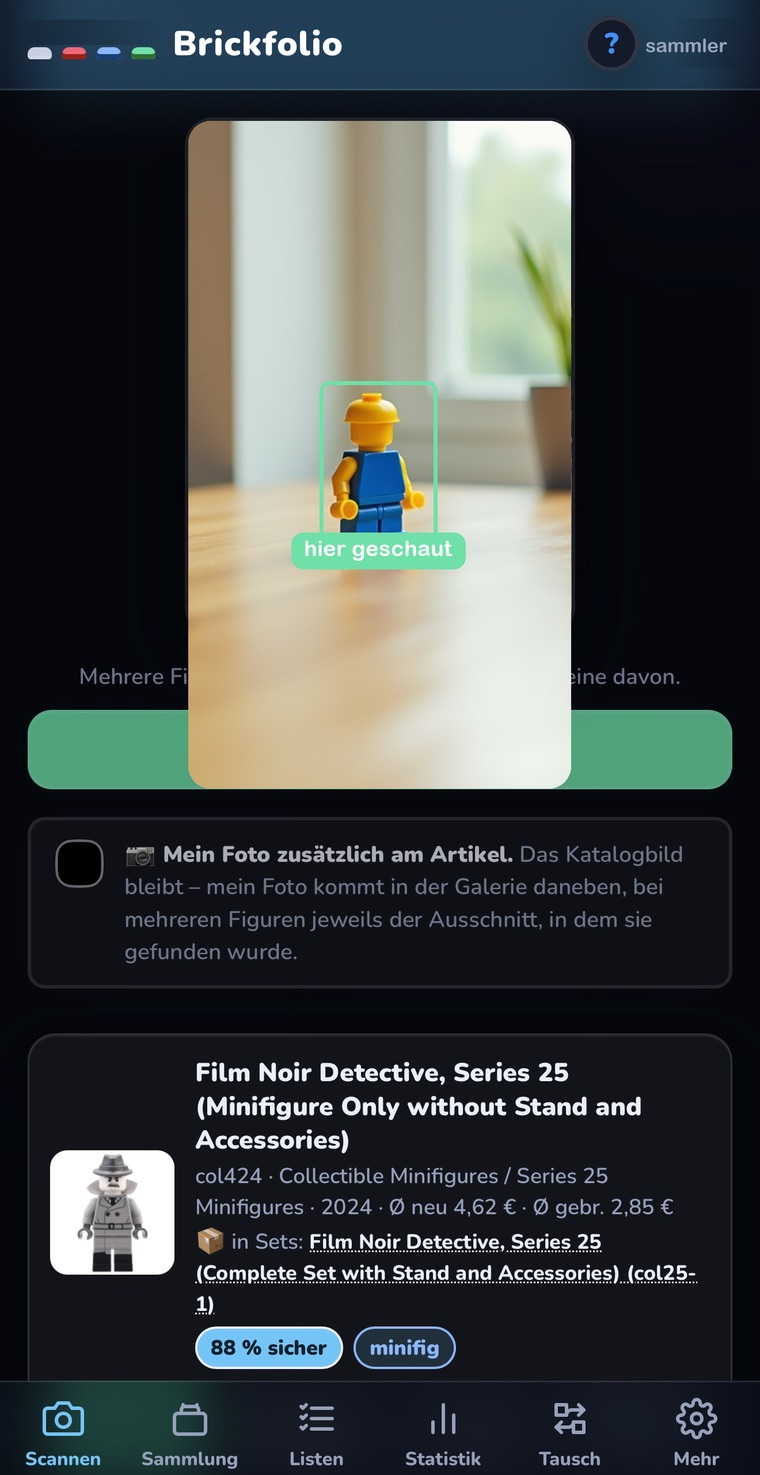
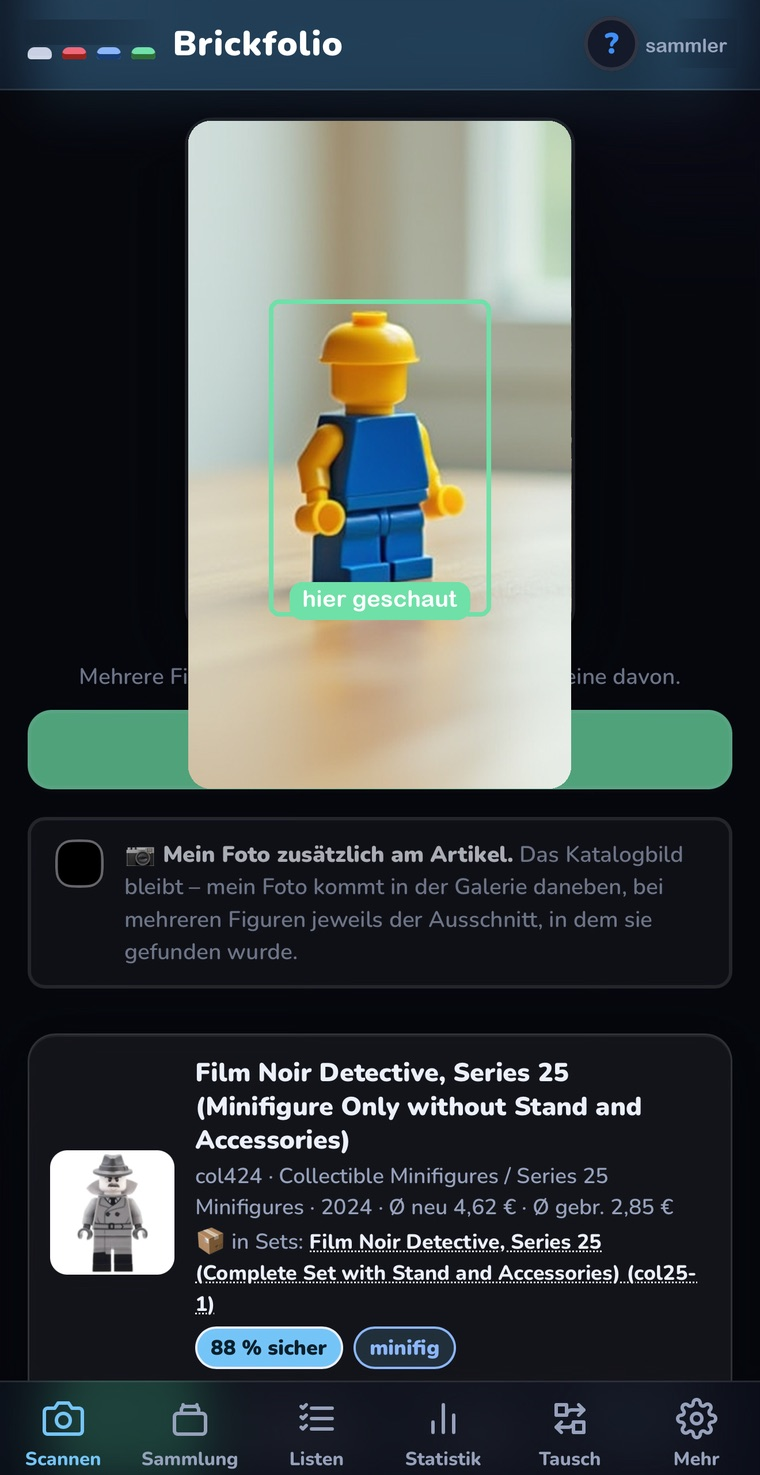
Website: gezeichneter Rahmen statt nachgestelltem Foto
Der Versuch, den Screenshot auf ein erzeugtes Handyfoto zu legen, ist
gescheitert: Der Screenshot verdeckte das Gerät vollständig – zu sehen war ein
aufgeklebtes Rechteck, keine Hand mit Handy –, das eingesetzte Kamerabild
passte formatmäßig nicht, und der gemeldete Treffer widersprach dem, was im
Kamerafeld stand.

Jetzt umgibt ein gezeichneter Rahmen den Screenshot. Er gibt sich als
Zeichnung zu erkennen, statt ein Foto vorzutäuschen, das keines ist – und das
Bild darin ist echt und in voller Schärfe lesbar.

Das Kamerafeld ist enger um die Figur gefasst, damit es wie eine
Kameravorschau wirkt und nicht wie ein Zimmerfoto.

Changed region(s): [[0.2421, 0.0624, 0.7566, 0.5614]]

diff --git a/website/style.css b/website/style.css
@@ -297,30 +297,20 @@ footer .wrap p { margin: 0; }
   .scannerbild figure { max-width: 320px; margin: 0 auto; }
 }
 
-/* ── Das Aufmacherfoto: die Geste vor dem Ergebnis ─────────────────────
-   Der Rahmen um den Treffer liegt als eigenes Element darueber, in Prozent
-   der Bildflaeche. So braucht eine Korrektur kein neues Foto, und auf dem
-   Handy sitzt er genauso wie auf dem Rechner. */
-.szene { margin: 30px auto 0; max-width: 380px; }
-.szene-bild { position: relative; line-height: 0; }
-.szene-bild img {
-  width: 100%; height: auto; display: block;
-  border-radius: var(--radius); border: 1px solid var(--line);
-  box-shadow: var(--shadow); background: var(--card);
+/* ── Der Scan im Gerät ────────────────────────────────────────────────
+   Ein gezeichneter Rahmen statt eines nachgestellten Fotos: Er gibt sich als
+   Zeichnung zu erkennen, während das Bild darin echt ist. Der Versuch, den
+   Screenshot auf ein erzeugtes Handyfoto zu legen, sah nach aufgeklebtem
+   Rechteck aus – und kein Format passte zum anderen. */
+.szene { margin: 32px auto 0; max-width: 310px; }
+.geraet {
+  background: #1D1D1B; border-radius: 30px; padding: 10px;
+  box-shadow: 0 6px 0 rgba(29,29,27,.22), 0 0 0 1px rgba(29,29,27,.35);
+  line-height: 0;
 }
-/* Der Screenshot liegt auf dem leeren Display des Fotos. Die Werte sind in
-   Prozent der Bildflaeche gemessen, damit er auf jeder Groesse sitzt. */
-.szene-bild .display {
-  position: absolute;
-  left: 13.4%; top: 7.4%; width: 71.2%; height: 69.0%;
-  /* 'fill' statt 'cover': Der Screenshot ist um 11 % breiter angelegt als
-     die Displayflaeche im Foto. Mit 'cover' fielen links und rechts je
-     5,5 % weg - und damit das M von MUSTERHAUSHALT und das r von
-     sammler. Eine Stauchung um 11 % sieht man einem Display, das man
-     leicht schraeg sieht, nicht an; fehlende Buchstaben schon. */
-  object-fit: fill;
-  border: 0; border-radius: 5px; box-shadow: none;
-}
+.geraet img { width: 100%; height: auto; display: block; border-radius: 22px; }
 .szene figcaption {
-  color: var(--muted); font-size: .95rem; margin-top: 10px; line-height: 1.5;
+  color: var(--muted); font-size: .95rem; margin-top: 12px; line-height: 1.5;
+  text-align: center;
 }
+

diff --git a/website/index.html b/website/index.html
@@ -83,17 +83,16 @@
        Der Treffer-Rahmen liegt als eigenes Element ueber dem Bild und nicht
        im Bild selbst: So sitzt er auf jeder Groesse gleich und laesst sich
        verschieben, ohne das Foto neu zu erzeugen. -->
-  <!-- Das Foto ist erzeugt, der Bildschirminhalt nicht: Auf dem leeren
-       Display liegt die echte Aufnahme der App. So zeigt das Bild die Geste
-       und zugleich das Programm - und der Screenshot laesst sich austauschen,
-       ohne das Foto neu zu erzeugen. -->
+  <!-- Kein nachgestelltes Foto mehr: Der Versuch, einen Screenshot auf ein
+       erzeugtes Handybild zu legen, sah nach aufgeklebtem Rechteck aus und
+       die Formate passten nicht. Der Rahmen hier ist gezeichnet und gibt sich
+       auch als solcher - das Bild darin ist echt. -->
   <figure class="szene">
-    <div class="szene-bild">
-      <img src="assets/scannen-handy.jpg" width="560" height="1090"
-           alt="Eine Hand hält ein Handy über eine Minifigur auf dem Tisch; auf dem Bildschirm hat Brickfolio die Figur erkannt">
-      <img class="display" src="assets/scan-display.jpg" width="760" height="1475" alt="">
+    <div class="geraet">
+      <img src="assets/scan-display.jpg" width="760" height="1475"
+           alt="Brickfolio im Scanmodus: die erkannte Figur im Kamerafeld, darunter der Treffer mit Nummer, Preisen und Trefferwahrscheinlichkeit">
     </div>
-    <figcaption>Draufhalten: erkannt, mit Nummer, Preis und „88 % sicher“ – ein Tipp, und sie steht in der Sammlung</figcaption>
+    <figcaption>Draufhalten: erkannt, mit Nummer, Preis und Sicherheit – ein Tipp, und sie steht in der Sammlung</figcaption>
   </figure>
 
   <div class="shots">
